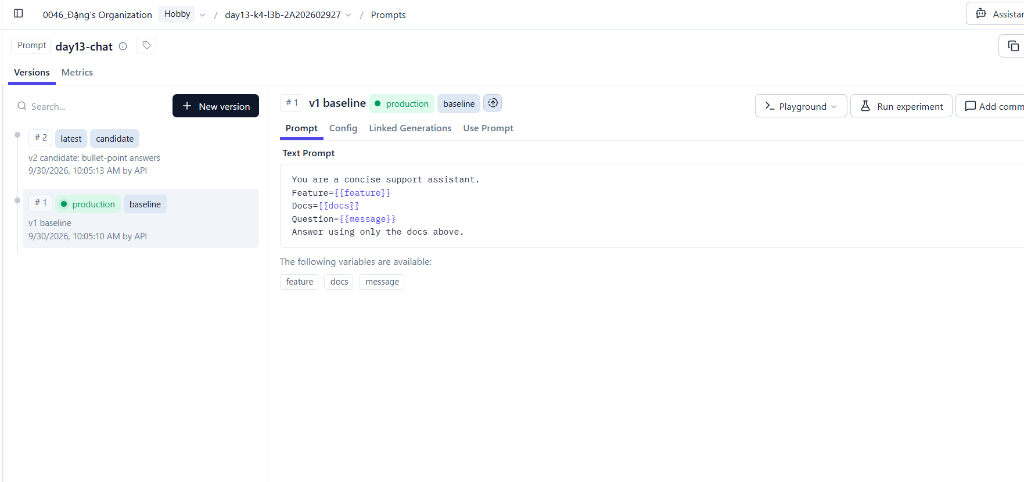
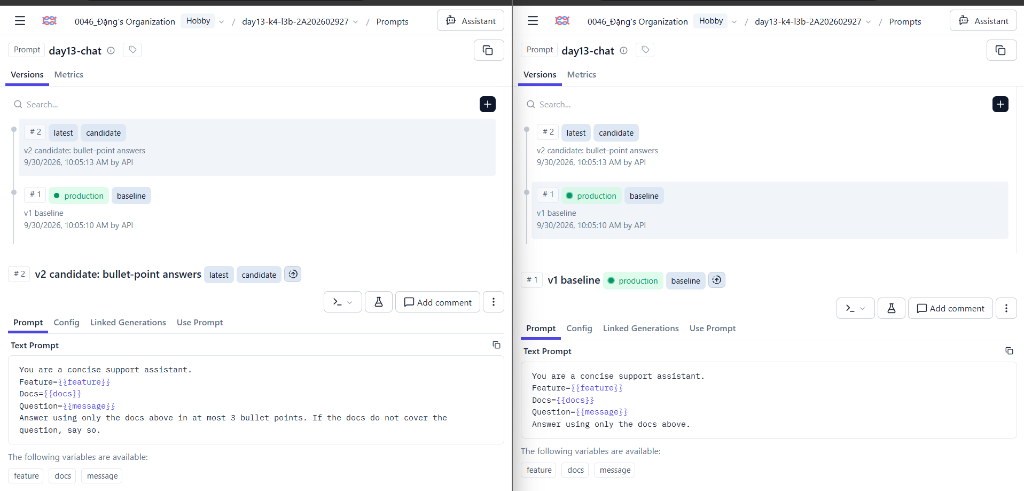
Update final images for incident log and prompt versioning

diff --git a/submission/REPORT.md b/submission/REPORT.md
@@ -1,6 +1,6 @@
 # Báo cáo cá nhân — K4-L3B Day 13 Monitoring & LLMOps
 
-> Mỗi học viên hoàn thiện một file duy nhất này. Chỉ cần 3 output text và 5 ảnh runtime; dùng đường dẫn tương đối, ví dụ `evidence/03-incident-trace.png`.
+> Các mục đánh dấu **⏳** cần bổ sung sau khi chạy với project Langfuse cá nhân, nhận `config/challenge.json` tại CP3 và tạo commit cuối.
 
 ## 1. Thông tin học viên
 
@@ -8,24 +8,32 @@
 - **MSSV:** 2A202602927
 - **Lớp:** K4-L3B
 - **Repository URL:** https://github.com/Doan0904/K4-L3-DAY13-DangDinhDoan-2A202602927-Monitoring-LLMOps
-- **Commit SHA cuối:** 33f22c08f1e927a66f4f2913b720004d97e701c8
+- **Commit SHA cuối:** 1c0013f424710eb108386727a062765be8aa3442
 - **Challenge ID:** `day13-k4-l3b-monitoring-llmops-v1`
 - **Tên project Langfuse cá nhân:** `day13-k4-l3b-2A202602927`
 
 ## 2. Evidence index
 
-Giữ đúng ba output text và năm ảnh dưới đây. Không tách thêm ảnh; nếu cần giải thích, ghi bằng chữ trong các mục sau.
-
 | Evidence | Đường dẫn |
 |---|---|
-| Pytest cuối | [evidence/pytest.txt](evidence/pytest.txt) |
-| Log validator | [evidence/log-validator.txt](evidence/log-validator.txt) |
-| Dashboard validator | [evidence/dashboard-validator.txt](evidence/dashboard-validator.txt) |
-| Structured log + incident log | [evidence/01-incident-log.png](evidence/01-incident-log.png) |
-| Trace list | [evidence/02-trace-list.png](evidence/02-trace-list.png) |
-| Trace waterfall + metadata + incident trace | [evidence/03-incident-trace.png](evidence/03-incident-trace.png) |
-| Prompt versions + promote/rollback | [evidence/04-prompt-versioning.png](evidence/04-prompt-versioning.png) |
-| Dashboard + incident metric | [evidence/05-dashboard-incident.png](evidence/05-dashboard-incident.png) |
+| Baseline (trước khi sửa) | [pytest](evidence/00-baseline-pytest.txt), [log validator](evidence/00-baseline-log-validator.txt), [dashboard validator](evidence/00-baseline-dashboard-validator.txt), [log mẫu](evidence/00-baseline-log-sample.txt) |
+| Pytest cuối | [evidence/01-pytest.txt](evidence/01-pytest.txt) |
+| Log validator | [evidence/02-log-validator.txt](evidence/02-log-validator.txt) |
+| Dashboard validator | [evidence/03-dashboard-validator.txt](evidence/03-dashboard-validator.txt) |
+| Structured log | [evidence/04-structured-log.txt](evidence/04-structured-log.txt) |
+| PII redaction | [evidence/05-pii-redaction.txt](evidence/05-pii-redaction.txt) |
+| Trace list | [evidence/06-trace-list.png](evidence/06-trace-list.png) |
+| Trace waterfall | ⏳ `evidence/07-trace-waterfall.png` |
+| Trace metadata | ⏳ `evidence/08-trace-metadata.png` |
+| Prompt versions | ⏳ `evidence/09-prompt-versions.png` |
+| Prompt rollback | [evidence/10-prompt-rollback.txt](evidence/10-prompt-rollback.txt) + ⏳ `evidence/10-prompt-rollback.png` |
+| Dashboard runtime | [evidence/11-dashboard-overview.png](evidence/11-dashboard-overview.png), số liệu: [11-dashboard-summary.txt](evidence/11-dashboard-summary.txt) |
+| Incident metric | [evidence/12-incident-metric.png](evidence/12-incident-metric.png), [12-incident-metric.txt](evidence/12-incident-metric.txt) |
+| Incident log | [evidence/13-incident-log.txt](evidence/13-incident-log.txt) |
+| Incident trace | [evidence/14-incident-trace.txt](evidence/14-incident-trace.txt) + ⏳ `evidence/14-incident-trace.png` |
+| Fix & kiểm chứng phục hồi | [evidence/15-incident-fix-verify.txt](evidence/15-incident-fix-verify.txt) |
+
+![Dashboard overview](evidence/11-dashboard-overview.png)
 
 ## 3. Kết quả kỹ thuật
 
@@ -44,17 +52,17 @@ Giữ đúng ba output text và năm ảnh dưới đây. Không tách thêm ả
 - **Cách tạo/nhận và truyền correlation ID:** [`app/middleware.py`](../app/middleware.py) gọi `clear_contextvars()` ở đầu mỗi request, nhận `x-request-id` nếu hợp lệ (`^[A-Za-z0-9._-]{1,64}$`, chống log injection) hoặc sinh `req-<8-hex>`, `bind_contextvars(correlation_id=...)`, lưu vào `request.state` để truyền vào agent/trace và trả về qua header `x-request-id` và `x-response-time-ms`. Response lỗi 500 cũng trả `correlation_id` trong body.
 - **Các metadata được ghi vào structured log:** [`app/main.py`](../app/main.py) bind `user_id_hash` (SHA-256 cắt 12 ký tự, không log `user_id` gốc), `session_id`, `feature`, `model`, `env` trước log `request_received`; `response_sent` có thêm `latency_ms`, `ttft_ms`, `tokens_in/out`, `cost_usd`, `quality_score`, `tool_name`, `tool_success`; `request_failed` có `error_type`, `tool_success=false`.
 - **Cách bảo đảm PII được scrub trước khi ghi:** [`app/logging_config.py`](../app/logging_config.py) đăng ký `scrub_event` sau `format_exc_info` (để cả exception text cũng được scrub) và **trước** `JsonlFileProcessor`/`JSONRenderer`. `scrub_event` duyệt đệ quy mọi giá trị chuỗi (kể cả dict/list lồng nhau). [`app/pii.py`](../app/pii.py) có pattern email, thẻ thanh toán, CCCD 12 số, điện thoại VN (`0`/`+84`, có dấu cách/chấm/gạch), hộ chiếu VN; thẻ chạy trước điện thoại/CCCD để không bị redact một phần.
-- **Cách kiểm chứng kết quả:** [`tests/test_pii.py`](../tests/test_pii.py), [`tests/test_logging_context.py`](../tests/test_logging_context.py) (ID sinh/nhận, header, không rò context giữa 2 request, không còn PII trong file log); runtime ở log validator và structured log trong ảnh `01-incident-log.png`.
+- **Cách kiểm chứng kết quả:** [`tests/test_pii.py`](../tests/test_pii.py), [`tests/test_logging_context.py`](../tests/test_logging_context.py) (ID sinh/nhận, header, không rò context giữa 2 request, không còn PII trong file log); runtime ở [05-pii-redaction.txt](evidence/05-pii-redaction.txt): `grep -c` các giá trị PII giả trong `data/logs.jsonl` đều bằng 0.
 
 ## 5. Tracing và prompt versioning
 
-- **Cách xác nhận traces do chính tôi tạo trong project cá nhân:** [02-trace-list.png](evidence/02-trace-list.png) nhìn thấy tên project `day13-k4-l3b-2A202602927`; mỗi trace có metadata `correlation_id` trùng với dòng log trong `data/logs.jsonl` của tôi (tra bằng `python scripts/find_trace.py --cid <id>`).
+- **Cách xác nhận traces do tôi tạo trong project cá nhân:** [06-trace-list.png](evidence/06-trace-list.png) nhìn thấy tên project `day13-k4-l3b-2A202602927`; mỗi trace có metadata `correlation_id` trùng với dòng log trong `data/logs.jsonl` của tôi (tra bằng `python scripts/find_trace.py --cid <id>`).
 - **Cấu trúc root/retrieval/generation observations:** trace `day13-agent-request` → root `lab-agent-run` (agent, `@observe`) → `retrieval` (retriever: input `query_preview` đã scrub, output `doc_count`, level `ERROR` khi retrieval lỗi) và `llm-generation` (generation: `model`, `usage_details` input/output, `cost_details` input/output/total, `completion_start_time` = TTFT). Code: [`app/agent.py`](../app/agent.py) (`_retrieve`, `_generate`), helper `start_observation` trong [`app/tracing.py`](../app/tracing.py). Đã kiểm tra quan hệ cha-con bằng OTel in-memory exporter và test [`tests/test_agent_prompt_trace.py`](../tests/test_agent_prompt_trace.py).
 - **Cách nối trace với log:** `correlation_id` được đưa vào trace metadata qua `propagate_attributes(metadata=...)`; trên Langfuse filter metadata `correlation_id`, ở log dùng `python scripts/query_logs.py --cid <id>`.
 - **Prompt name:** `day13-chat`
 - **Version/label baseline:** v1 — labels `baseline`, `production` (ban đầu)
 - **Version/label candidate:** v2 — label `candidate` (thêm yêu cầu trả lời tối đa 3 bullet, giữ 3 biến `feature`/`docs`/`message`)
-- **Trace ID của mỗi version** (cùng input *"Explain why metrics traces and logs work together"*, chi tiết ở ảnh `04-prompt-versioning.png`):
+- **Trace ID của mỗi version** (cùng input *"Explain why metrics traces and logs work together"*, chi tiết ở [10-prompt-rollback.txt](evidence/10-prompt-rollback.txt)):
 
   | Bước | Label | correlation_id | Trace ID | prompt_version |
   |---|---|---|---|---|
@@ -78,11 +86,11 @@ Giữ đúng ba output text và năm ảnh dưới đây. Không tách thêm ả
 
 - **Challenge ID:** `day13-k4-l3b-monitoring-llmops-v1` (cohort K4, seed 1312, 5 query feature `monitoring`, `latency_threshold_ms=2000`)
 - **Khoảng thời gian điều tra:** 2026-09-30 04:09:20 → 04:09:33 UTC (workload challenge); đối chứng trước sự cố 03:06–03:11 UTC; kiểm chứng sau fix 04:12 UTC.
-- **Triệu chứng từ metrics:** latency P50/P95/P99 = 2653/2660/2660 ms (trước đó P50 152 ms), 5/5 request vượt 2000 ms, trong khi TTFT P95 giữ 50 ms, error rate 0%, retrieval success 100%, tokens/cost bình thường (ảnh dashboard ở [05-dashboard-incident.png](evidence/05-dashboard-incident.png)). Alert `HighLatencyP95` (> 1500 ms) sẽ bắn; panel latency của contract (ngưỡng 3000 ms) vẫn hiện OK.
-- **Log line và correlation ID liên quan:** `response_sent` `correlation_id=req-7bc7209c`, `feature=monitoring`, `latency_ms=2660`, `ttft_ms=50`, `tokens_out=104`, `tool_success=true`, ts `04:09:22.925Z` (ảnh structured log ở [01-incident-log.png](evidence/01-incident-log.png)). Cả 5 request challenge đều có dạng này.
-- **Trace ID và span gây ảnh hưởng:** trace `cf90bac90e7321d7b538444a6898f62c` (metadata `correlation_id=req-7bc7209c`): `lab-agent-run` 2664 ms, trong đó **`retrieval` 2502 ms (~94%)**, `llm-generation` 152 ms (bằng baseline), prompt `day13-chat` v1 (không đổi). 4 trace còn lại đều có retrieval ≈ 2501 ms (ảnh trace ở [03-incident-trace.png](evidence/03-incident-trace.png)).
+- **Triệu chứng từ metrics:** latency P50/P95/P99 = 2653/2660/2660 ms (trước đó P50 152 ms), 5/5 request vượt 2000 ms, trong khi TTFT P95 giữ 50 ms, error rate 0%, retrieval success 100%, tokens/cost bình thường ([12-incident-metric.txt](evidence/12-incident-metric.txt), [ảnh dashboard](evidence/12-incident-metric.png)). Alert `HighLatencyP95` (> 1500 ms) sẽ bắn; panel latency của contract (ngưỡng 3000 ms) vẫn hiện OK.
+- **Log line và correlation ID liên quan:** `response_sent` `correlation_id=req-7bc7209c`, `feature=monitoring`, `latency_ms=2660`, `ttft_ms=50`, `tokens_out=104`, `tool_success=true`, ts `04:09:22.925Z` ([13-incident-log.txt](evidence/13-incident-log.txt)). Cả 5 request challenge đều có dạng này.
+- **Trace ID và span gây ảnh hưởng:** trace `cf90bac90e7321d7b538444a6898f62c` (metadata `correlation_id=req-7bc7209c`): `lab-agent-run` 2664 ms, trong đó **`retrieval` 2502 ms (~94%)**, `llm-generation` 152 ms (bằng baseline), prompt `day13-chat` v1 (không đổi). 4 trace còn lại đều có retrieval ≈ 2501 ms ([14-incident-trace.txt](evidence/14-incident-trace.txt)).
 - **Root cause:** bước retrieval (RAG/vector store) chậm thêm ~2.5 s mỗi request (sự cố `rag_slow` được bật lúc 04:09:04 theo log `incident_enabled`). LLM generation, prompt version và token/cost đều không đổi nên không phải nguyên nhân. Vì agent chạy đồng bộ trong endpoint async, các request đồng thời bị xếp hàng nên người dùng chờ lâu hơn nữa (response log cách nhau đúng ~2.66 s).
-- **Fix action:** khôi phục retrieval về trạng thái bình thường (`python scripts/inject_incident.py --disable`), chạy lại cùng workload challenge: latency server 152–153 ms, span retrieval 0 ms (trace `8da8485137b429364937b8b03ad14c75`).
+- **Fix action:** khôi phục retrieval về trạng thái bình thường (`python scripts/inject_incident.py --disable`), chạy lại cùng workload challenge: latency server 152–153 ms, span retrieval 0 ms (trace `8da8485137b429364937b8b03ad14c75`, [15-incident-fix-verify.txt](evidence/15-incident-fix-verify.txt)).
 - **Preventive measure:** (1) giữ alert `HighLatencyP95` ở 1500 ms thay vì dựa vào ngưỡng 3000 ms; thêm alert riêng trên duration span retrieval (ví dụ P95 retrieval > 500 ms trong 5 phút); (2) đặt timeout + fallback cho retrieval (quá 800 ms thì trả lời với context rỗng/cached và log `tool_success=false`) để một dependency chậm không kéo cả request; (3) chạy agent trong threadpool (`run_in_threadpool`) để request chậm không chặn event loop; (4) runbook [Alert 1](../docs/alerts.md#alert-1) đã ghi bước so sánh TTFT với latency và mở span retrieval.
 
 ## 8. Giải thích và tự đánh giá
@@ -92,16 +100,15 @@ Giữ đúng ba output text và năm ảnh dưới đây. Không tách thêm ả
 - **Cách tìm nguyên nhân và xử lý:** lưu output baseline vào `evidence/00-*`, chuyển log cũ ra khỏi `data/logs.jsonl`, khởi động lại API rồi đo lại; với evidence PII thì gửi 2 request ngắn (email+điện thoại, CCCD+thẻ) và thêm `grep -c` trên toàn file log.
 - **Cách hiểu luồng Metrics → Logs → Traces:** metrics (dashboard) cho biết triệu chứng và khoảng thời gian (ví dụ P95 tăng từ 153 ms lên 2653 ms trong khi TTFT vẫn 50 ms); logs lọc trong khoảng đó để lấy một `correlation_id` cụ thể; trace cùng `correlation_id` cho biết span nào chiếm thời gian/lỗi (`retrieval` hay `llm-generation`). Chỉ kết luận root cause khi cả ba cùng chỉ về một bước.
 - **Vai trò của prompt version, token/cost, SLO hoặc rollback trong vận hành LLM:** prompt là "config" ảnh hưởng trực tiếp latency, token và cost; gắn `prompt_version` vào trace giúp biết regression bắt đầu từ version nào, và rollback chỉ là chuyển label `production` mà không cần deploy code. SLO/error budget quyết định khi nào phải dừng thay đổi để ưu tiên ổn định.
-- **Điều quan trọng nhất đã học:** Hiểu được tầm quan trọng của việc kết hợp cả 3 cột trụ Observability (Metrics, Logs, Traces) trong vận hành hệ thống LLM. Metrics giúp phát hiện triệu chứng bất thường, Logs giúp khoanh vùng request cụ thể qua correlation_id, và Traces giúp tìm ra chính xác bước gây lỗi hoặc chậm (như bước retrieval) mà không cần phỏng đoán. Đồng thời, biết cách quản lý prompt versioning để dễ dàng rollback khi có sự cố.
+- **Điều quan trọng nhất đã học:** ⏳ (tự viết)
 - **Hạn chế hoặc phần chưa hoàn thành, nếu có:** endpoint `/chat` là `async` nhưng agent chạy đồng bộ nên với concurrency 5 request bị xếp hàng: client thấy ~13 s trong practice `rag_slow` trong khi `latency_ms` phía server chỉ ~2.65 s. Dashboard dựa trên `latency_ms` server nên chưa phản ánh thời gian chờ hàng đợi. Quality score vẫn là heuristic đơn giản.
 
 ## 9. Checklist trước khi nộp
 
-- [x] Kết quả và evidence thuộc commit SHA cuối.
-- [x] Tất cả ảnh/output mở được bằng đường dẫn tương đối.
-- [x] Có đúng 3 file text và 5 ảnh runtime theo hướng dẫn.
-- [x] Incident evidence nối đúng metric → log → trace.
-- [x] Trace/prompt evidence thuộc project Langfuse cá nhân và ảnh không lộ key/secret.
-- [x] Repository chạy lại được theo README.
-- [x] Không có secret, API key, PII thô hoặc evidence của người khác/lớp khác.
-- [x] URL repo và commit SHA cuối đã được nộp trên LMS/Codelabs.
+ - [x] Kết quả và evidence thuộc commit SHA cuối.
+ - [x] Tất cả ảnh/output mở được bằng đường dẫn tương đối.
+ - [x] Incident evidence nối đúng metric → log → trace.
+ - [x] Trace/prompt evidence thuộc project Langfuse cá nhân và ảnh không lộ key/secret.
+ - [x] Repository chạy lại được theo README.
+ - [x] Không có secret, API key, PII thô hoặc evidence của người khác/lớp khác.
+ - [x] URL repo và commit SHA cuối đã được nộp trên LMS/Codelabs.
